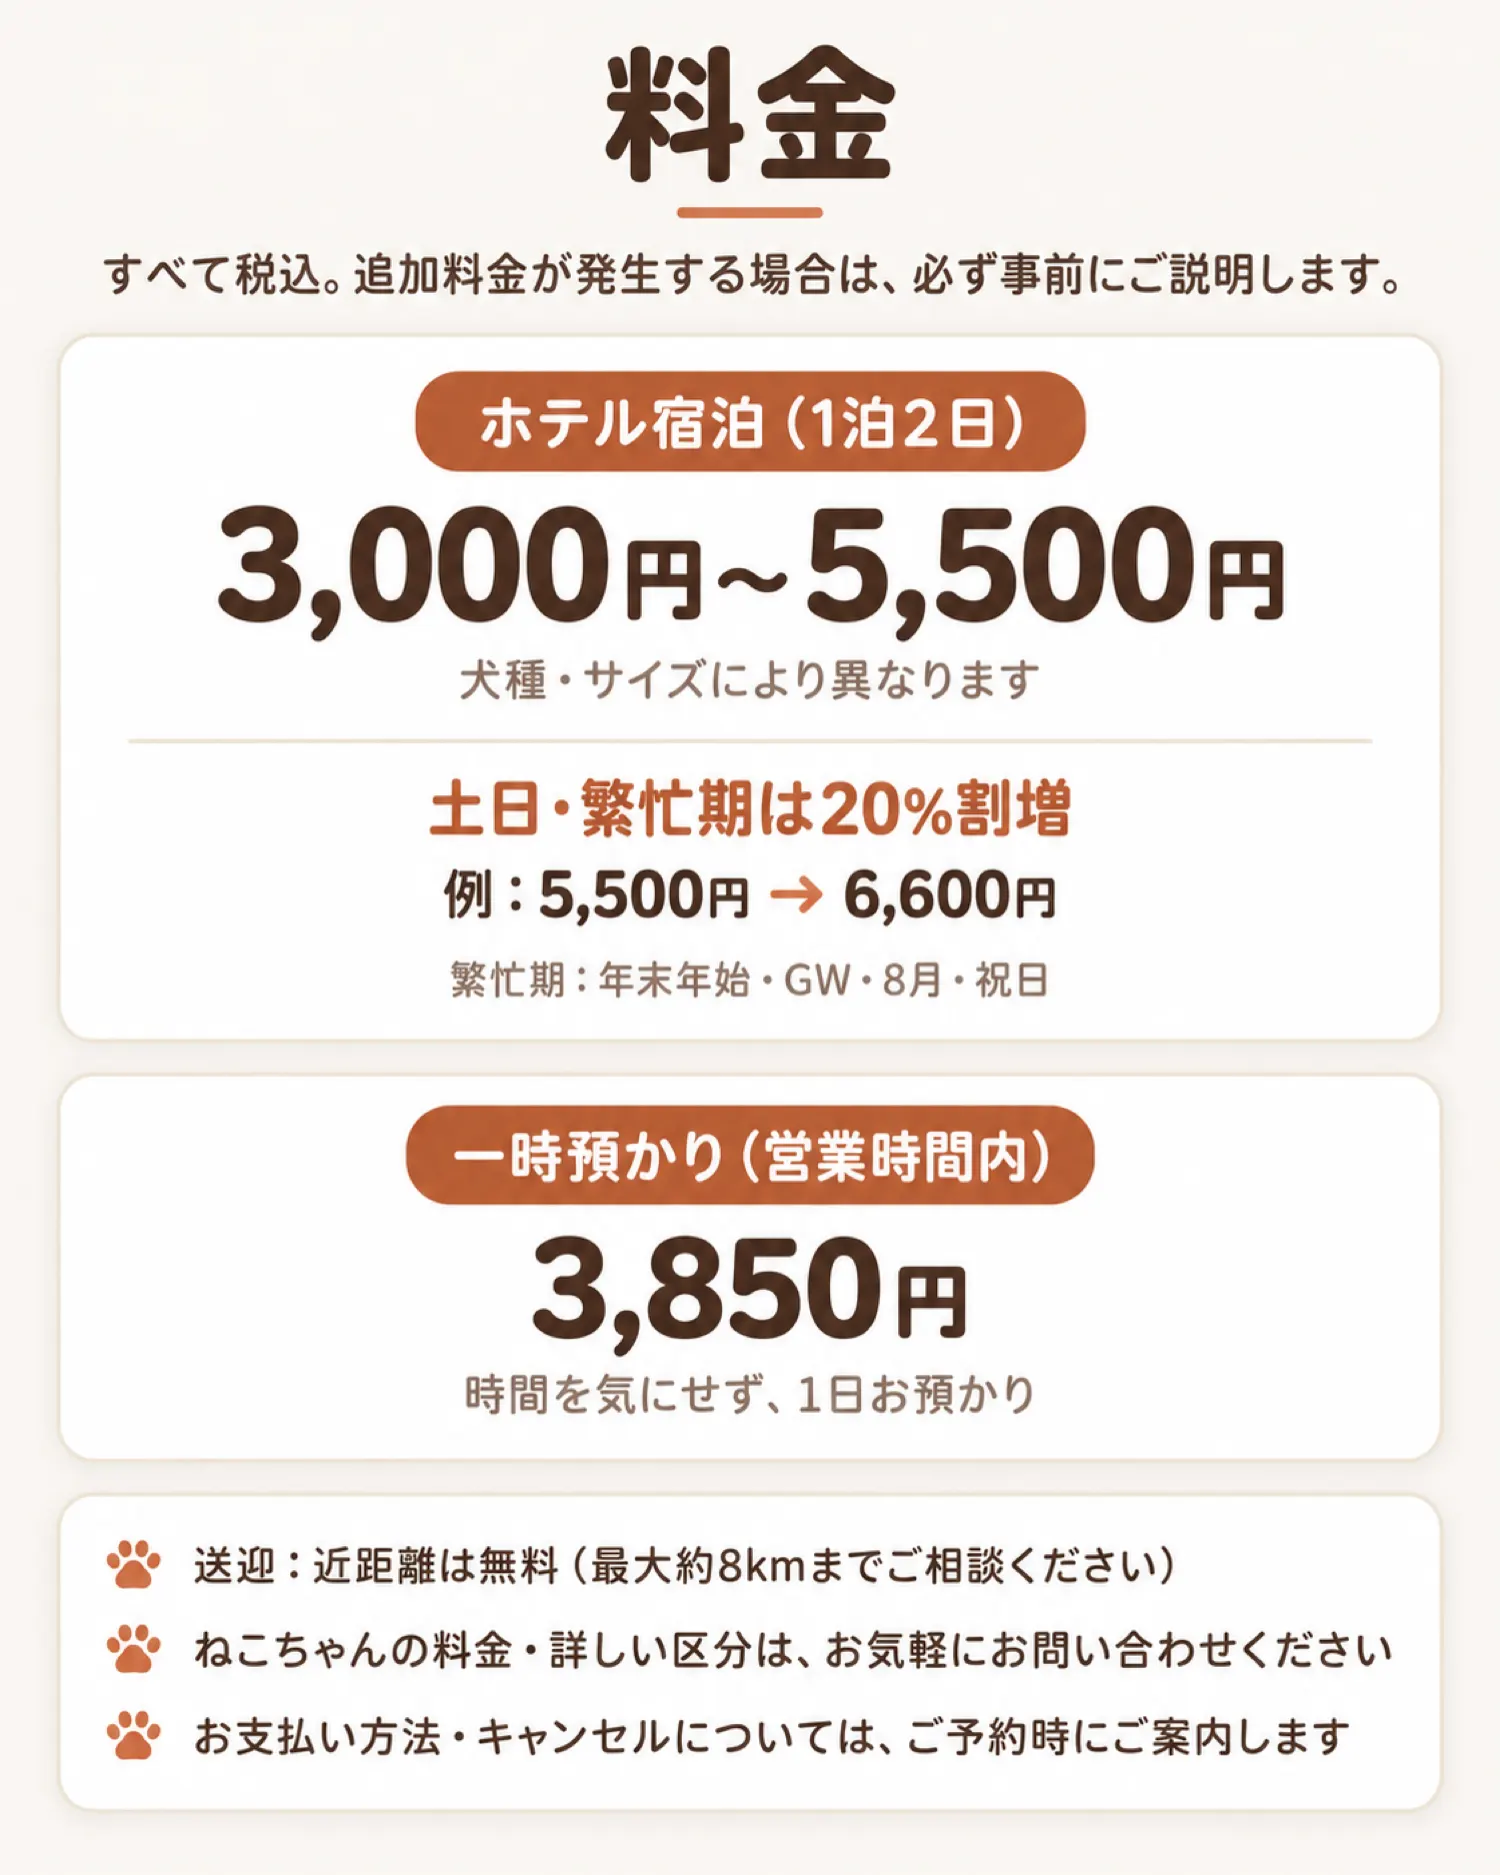
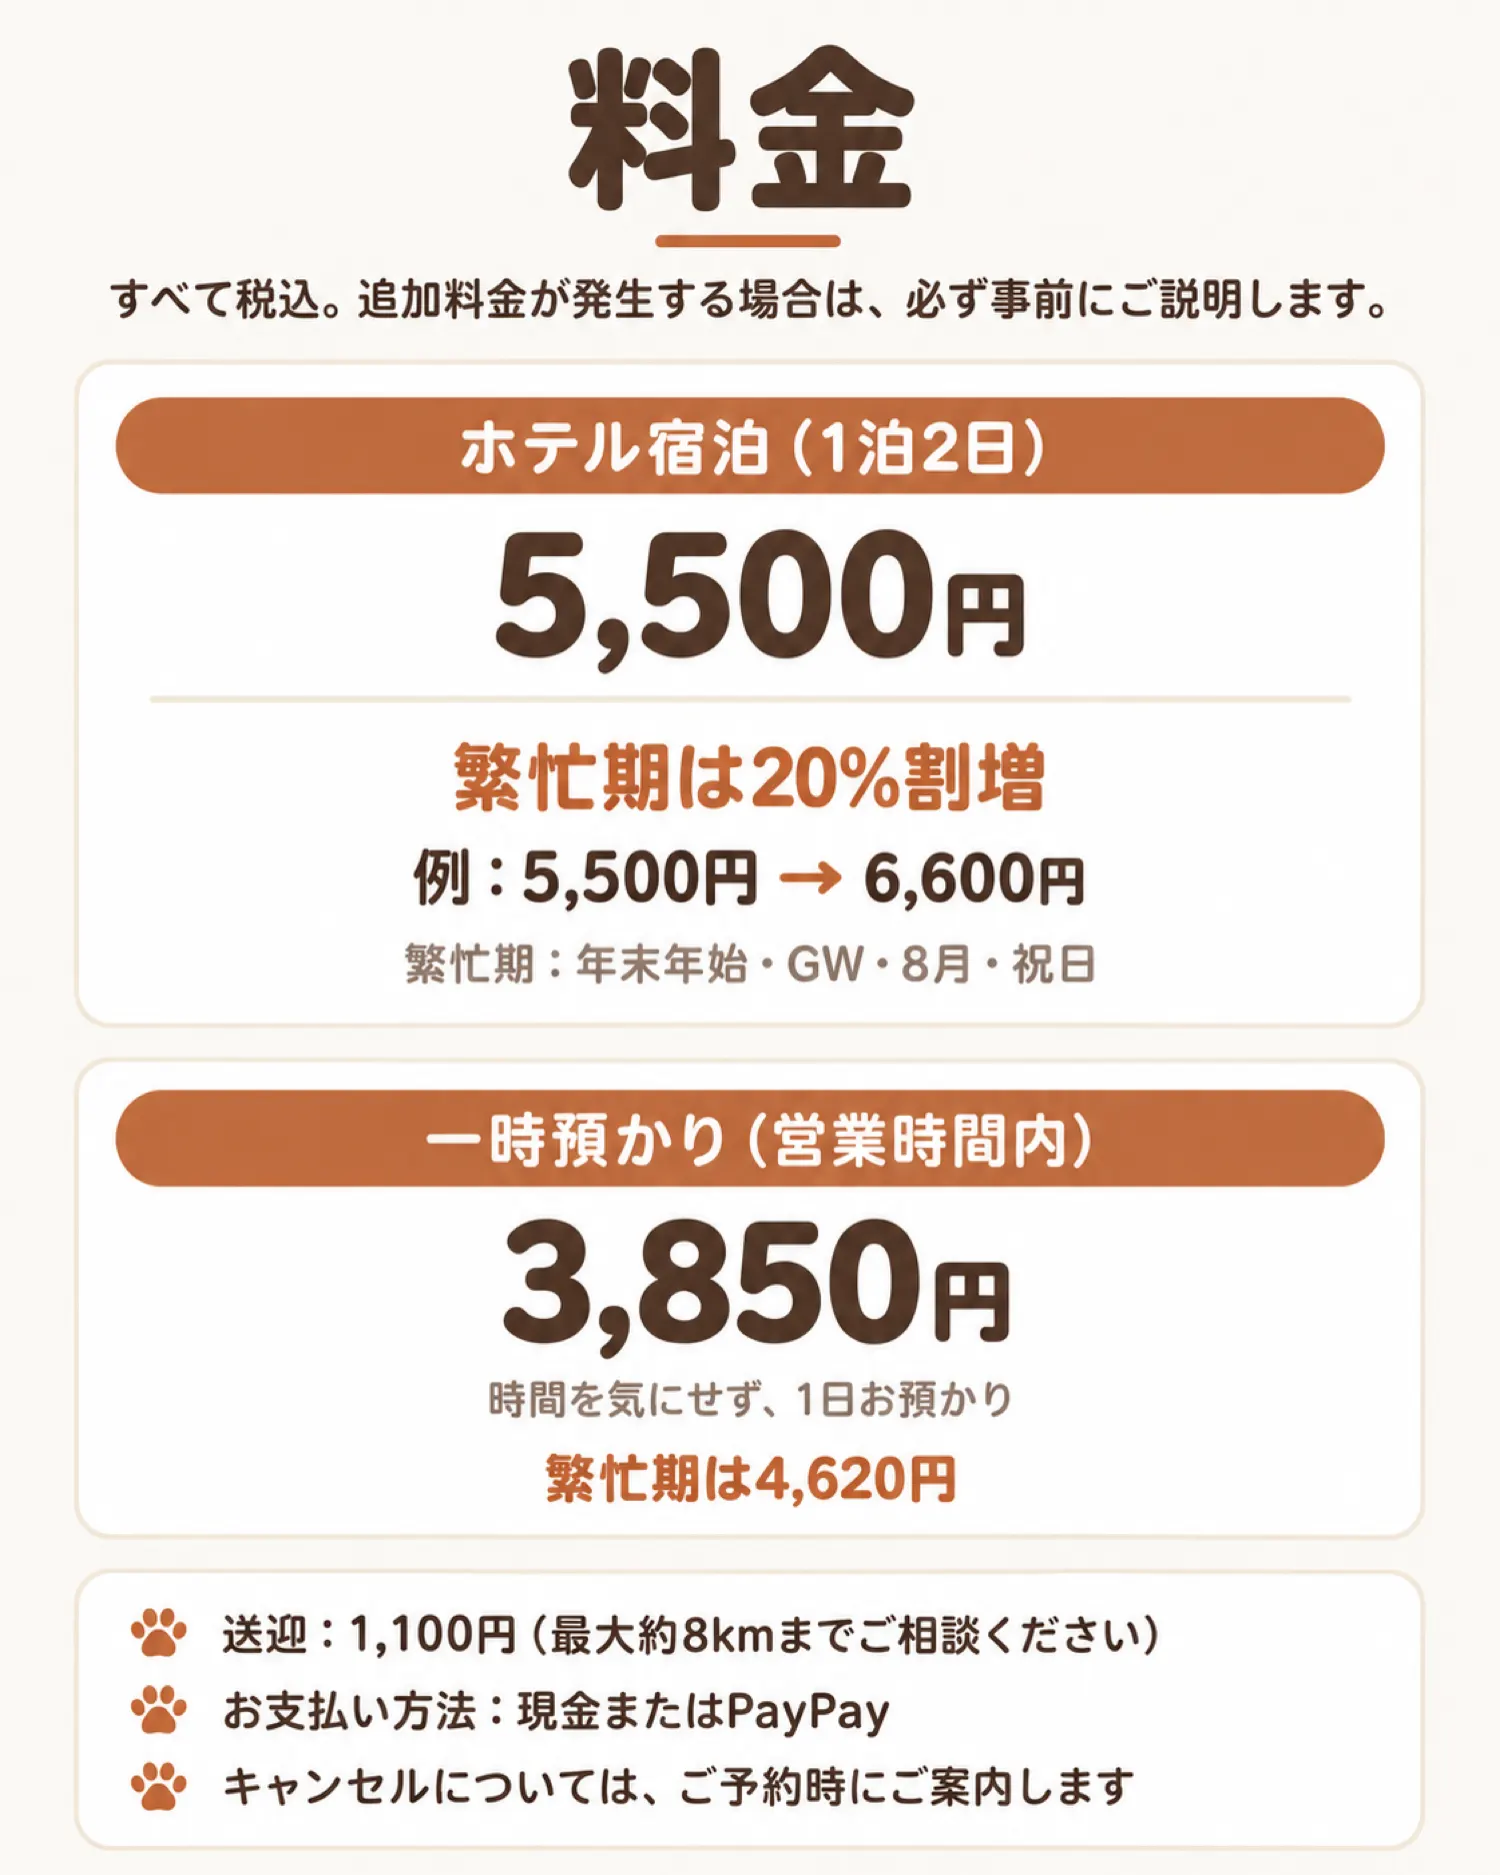
update

Changed region(s): [[0.0307, 0.0, 0.9507, 0.9899]]

diff --git a/index.html b/index.html
@@ -133,8 +133,8 @@
 
       <!-- ▼⑫ 料金 -->
       <section class="slice">
-        <img src="img/12-price.webp?v=1" width="1500" height="1875" loading="lazy"
-             alt="料金。すべて税込。追加料金が発生する場合は、必ず事前にご説明します。ホテル宿泊（1泊2日）3,000円〜5,500円（犬種・サイズにより異なります）。土日・繁忙期は20%割増（例：5,500円→6,600円。繁忙期：年末年始・GW・8月・祝日）。一時預かり（営業時間内）3,850円。送迎：近距離は無料（最大約8kmまでご相談ください）。ねこちゃんの料金・詳しい区分はお気軽にお問い合わせください。お支払い方法・キャンセルについてはご予約時にご案内します">
+        <img src="img/12-price.webp?v=2" width="1500" height="1875" loading="lazy"
+             alt="料金。すべて税込。追加料金が発生する場合は、必ず事前にご説明します。ホテル宿泊（1泊2日）5,500円。繁忙期は20%割増（例：5,500円→6,600円。繁忙期：年末年始・GW・8月・祝日）。一時預かり（営業時間内）3,850円、時間を気にせず1日お預かり、繁忙期は4,620円。送迎：1,100円（最大約8kmまでご相談ください）。お支払い方法：現金またはPayPay。キャンセルについてはご予約時にご案内します">
       </section>
 
       <!-- ▼⑬ ご利用の流れ -->
@@ -183,7 +183,7 @@
           </details>
           <details>
             <summary><span class="q">Q</span>送迎はしてもらえますか？</summary>
-            <div class="a"><span class="mark">A</span><p>はい。近距離は無料で送迎いたします。最大約8kmまで対応していますので、ご予約時にご相談ください。</p></div>
+            <div class="a"><span class="mark">A</span><p>はい。送迎は1,100円（税込）で承ります。最大約8kmまで対応していますので、ご予約時にご相談ください。</p></div>
           </details>
         </div>
         <p class="faq-tail">そのほかのご質問も、LINE・お電話でお気軽にどうぞ。</p>
